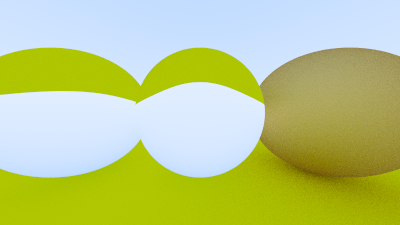
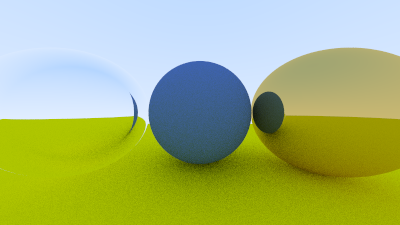
Fix section describing total internal reflection
With a sphere of index of refraction greater than the surrounding
medium, there is no incoming ray that can be chosen to show total
internal reflection. An incoming ray will be bent to a smaller angle
relative to the surface normal, and then bent back to the original angle
on exit.

To illustrate total reflection, this change renders a bubble of air
inside water. Glancing rays are then reflected off the surface instead
of refracted.

In the service of this change, I've also moved the center sphere back
a bit from the left and right spheres so you can see the affected side
more clearly. This will invalidate all of the other three-sphere images,
which will be fixed up in #1358 (Alpha.2 milestone verify Book 1
progression).

Resolves #900

diff --git a/books/RayTracingInOneWeekend.html b/books/RayTracingInOneWeekend.html
@@ -3067,7 +3067,7 @@ Now let’s add some metal spheres to our scene:
         auto material_right  = make_shared<metal>(color(0.8, 0.6, 0.2));
 
         world.add(make_shared<sphere>(point3( 0.0, -100.5, -1.0), 100.0, material_ground));
-        world.add(make_shared<sphere>(point3( 0.0,    0.0, -1.0),   0.5, material_center));
+        world.add(make_shared<sphere>(point3( 0.0,    0.0, -1.2),   0.5, material_center));
         world.add(make_shared<sphere>(point3(-1.0,    0.0, -1.0),   0.5, material_left));
         world.add(make_shared<sphere>(point3( 1.0,    0.0, -1.0),   0.5, material_right));
     ~~~~~~~~~~~~~~~~~~~~~~~~~~~~~~~~~~~~~~~~~~~~~~~~~~~~~~~~~~~~~~~~~~~~~~~~~~~~~~~~~~~~~~~~~~~~ C++
@@ -3309,17 +3309,18 @@ And the dielectric material that always refracts is:
 </div>
 
 <div class='together'>
-Now we'll update the scene to change the left and center spheres to glass:
+Now we'll update the scene to illustrate refraction by changing the left sphere to glass, which has
+an index of refraction of approximately 1.5.
 
     ~~~~~~~~~~~~~~~~~~~~~~~~~~~~~~~~~~~~~~~~~~~~~~~~~~~~~~~~~~~~~~~~~~~~~~~~~~~~~~~~~~~~~~~~~~~~ C++
     auto material_ground = make_shared<lambertian>(color(0.8, 0.8, 0.0));
+    auto material_center = make_shared<lambertian>(color(0.1, 0.2, 0.5));
     ~~~~~~~~~~~~~~~~~~~~~~~~~~~~~~~~~~~~~~~~~~~~~~~~~~~~~~~~~~~~~~~~~~~~~~~~~~~~~~~~~~ C++ highlight
-    auto material_center = make_shared<dielectric>(1.5);
     auto material_left   = make_shared<dielectric>(1.5);
     ~~~~~~~~~~~~~~~~~~~~~~~~~~~~~~~~~~~~~~~~~~~~~~~~~~~~~~~~~~~~~~~~~~~~~~~~~~~~~~~~~~~~~~~~~~~~ C++
     auto material_right  = make_shared<metal>(color(0.8, 0.6, 0.2), 1.0);
     ~~~~~~~~~~~~~~~~~~~~~~~~~~~~~~~~~~~~~~~~~~~~~~~~~~~~~~~~~~~~~~~~~~~~~~~~~~~~~~~~~~~~~~~~~~~~~~~~
-    [Listing [two-glass]: <kbd>[main.cc]</kbd> Changing left and center spheres to glass]
+    [Listing [two-glass]: <kbd>[main.cc]</kbd> Changing the left sphere to glass]
 
 </div>
 
@@ -3334,9 +3335,10 @@ This gives us the following result:
 
 Total Internal Reflection
 --------------------------
-That definitely doesn't look right. One troublesome practical issue is that when the ray is in the
-material with the higher refractive index, there is no real solution to Snell’s law, and thus there
-is no refraction possible. If we refer back to Snell's law and the derivation of $\sin\theta'$:
+One troublesome practical issue with refraction is that there are ray angles for which no solution
+is possible using Snell's law. When a ray enters a medium of lower index of refraction at a
+sufficiently glancing angle, it can refract with an angle greater than 90&deg;. If we refer back to
+Snell's law and the derivation of $\sin\theta'$:
 
   $$ \sin\theta' = \frac{\eta}{\eta'} \cdot \sin\theta $$
 
@@ -3366,8 +3368,10 @@ solution does not exist, the glass cannot refract, and therefore must reflect th
 </div>
 
 Here all the light is reflected, and because in practice that is usually inside solid objects, it is
-called “total internal reflection”. This is why sometimes the water-air boundary acts as a perfect
-mirror when you are submerged.
+called _total internal reflection_. This is why sometimes the water-to-air boundary acts as a
+perfect mirror when you are submerged -- if you're under water looking up, you can see things above
+the water, but when you are close to the surface and looking sideways, the water surface looks like
+a mirror.
 
 We can solve for `sin_theta` using the trigonometric qualities:
 
@@ -3434,25 +3438,42 @@ And the dielectric material that always refracts (when possible) is:
 
 </div>
 
-<div class='together'>
-Attenuation is always 1 -- the glass surface absorbs nothing. If we try that out with these
-parameters:
+Attenuation is always 1 -- the glass surface absorbs nothing.
 
-    ~~~~~~~~~~~~~~~~~~~~~~~~~~~~~~~~~~~~~~~~~~~~~~~~~~~~~~~~~~~~~~~~~~~~~~~~~~~~~~~~~~ C++ Highlight
+If we render the prior scene with the new `dielectric::scatter()` function, we see … no change. Huh?
+
+Well, it turns out that given a sphere of material with an index of refraction greater than air,
+there's no incident angle that will yield total internal reflection -- neither at the ray-sphere
+entrance point nor at the ray exit. This is due to the geometry of spheres, as a grazing incoming
+ray will always be bent to a smaller angle, and then bent back to the original angle on exit.
+
+So how can we illustrate total internal reflection? Well, if the sphere has an index of refraction
+_less_ than the medium it's in, then we can hit it with shallow grazing angles, getting total
+_external_ reflection. That should be good enough to observe the effect.
+
+We'll model a world filled with water (index of refraction approximately 1.33), and change the
+sphere material to air (index of refraction 1.00) -- an air bubble! To do this, change the left
+sphere material's index of refraction to
+
+  $$\frac{\text{index of refraction of air}}{\text{index of refraction of water}}$$
+
+    ~~~~~~~~~~~~~~~~~~~~~~~~~~~~~~~~~~~~~~~~~~~~~~~~~~~~~~~~~~~~~~~~~~~~~~~~~~~~~~~~~~~~~~~~~~~~ C++
     auto material_ground = make_shared<lambertian>(color(0.8, 0.8, 0.0));
     auto material_center = make_shared<lambertian>(color(0.1, 0.2, 0.5));
-    auto material_left   = make_shared<dielectric>(1.5);
-    auto material_right  = make_shared<metal>(color(0.8, 0.6, 0.2), 0.0);
+    ~~~~~~~~~~~~~~~~~~~~~~~~~~~~~~~~~~~~~~~~~~~~~~~~~~~~~~~~~~~~~~~~~~~~~~~~~~~~~~~~~~ C++ highlight
+    auto material_left   = make_shared<dielectric>(1.00 / 1.33);
+    ~~~~~~~~~~~~~~~~~~~~~~~~~~~~~~~~~~~~~~~~~~~~~~~~~~~~~~~~~~~~~~~~~~~~~~~~~~~~~~~~~~~~~~~~~~~~ C++
+    auto material_right  = make_shared<metal>(color(0.8, 0.6, 0.2), 1.0);
     ~~~~~~~~~~~~~~~~~~~~~~~~~~~~~~~~~~~~~~~~~~~~~~~~~~~~~~~~~~~~~~~~~~~~~~~~~~~~~~~~~~~~~~~~~~~~~~~~
-    [Listing [scene-dielectric]: <kbd>[main.cc]</kbd> Scene with dielectric and shiny sphere]
-
-</div>
+    [Listing [two-glass]: <kbd>[main.cc]</kbd> Left sphere is an air bubble in water]
 
 <div class='together'>
-We get:
+This change yields the following render:
 
-  ![<span class='num'>Image 17:</span> Glass sphere that sometimes refracts
-  ](../images/img-1.17-glass-sometimes-refract.png class='pixel')
+  ![<span class='num'>Image 17:</span> Air bubble sometimes refracts, sometimes reflects
+  ](../images/img-1.17-air-bubble-total-reflection.png class='pixel')
+
+Here you can see that more-or-less direct rays refract, while glancing rays reflect.
 
 </div>
 
@@ -3544,7 +3565,7 @@ Here's the code:
     auto material_right  = make_shared<metal>(color(0.8, 0.6, 0.2), 0.0);
 
     world.add(make_shared<sphere>(point3( 0.0, -100.5, -1.0), 100.0, material_ground));
-    world.add(make_shared<sphere>(point3( 0.0,    0.0, -1.0),   0.5, material_center));
+    world.add(make_shared<sphere>(point3( 0.0,    0.0, -1.2),   0.5, material_center));
     world.add(make_shared<sphere>(point3(-1.0,    0.0, -1.0),   0.5, material_left));
     ~~~~~~~~~~~~~~~~~~~~~~~~~~~~~~~~~~~~~~~~~~~~~~~~~~~~~~~~~~~~~~~~~~~~~~~~~~~~~~~~~~ C++ highlight
     world.add(make_shared<sphere>(point3(-1.0,    0.0, -1.0),   0.4, material_bubble));
@@ -3812,7 +3833,7 @@ We'll change back to the prior scene, and use the new viewpoint:
         auto material_right  = make_shared<metal>(color(0.8, 0.6, 0.2), 0.0);
 
         world.add(make_shared<sphere>(point3( 0.0, -100.5, -1.0), 100.0, material_ground));
-        world.add(make_shared<sphere>(point3( 0.0,    0.0, -1.0),   0.5, material_center));
+        world.add(make_shared<sphere>(point3( 0.0,    0.0, -1.2),   0.5, material_center));
         world.add(make_shared<sphere>(point3(-1.0,    0.0, -1.0),   0.5, material_left));
         world.add(make_shared<sphere>(point3(-1.0,    0.0, -1.0),   0.4, material_bubble));
         world.add(make_shared<sphere>(point3( 1.0,    0.0, -1.0),   0.5, material_right));
